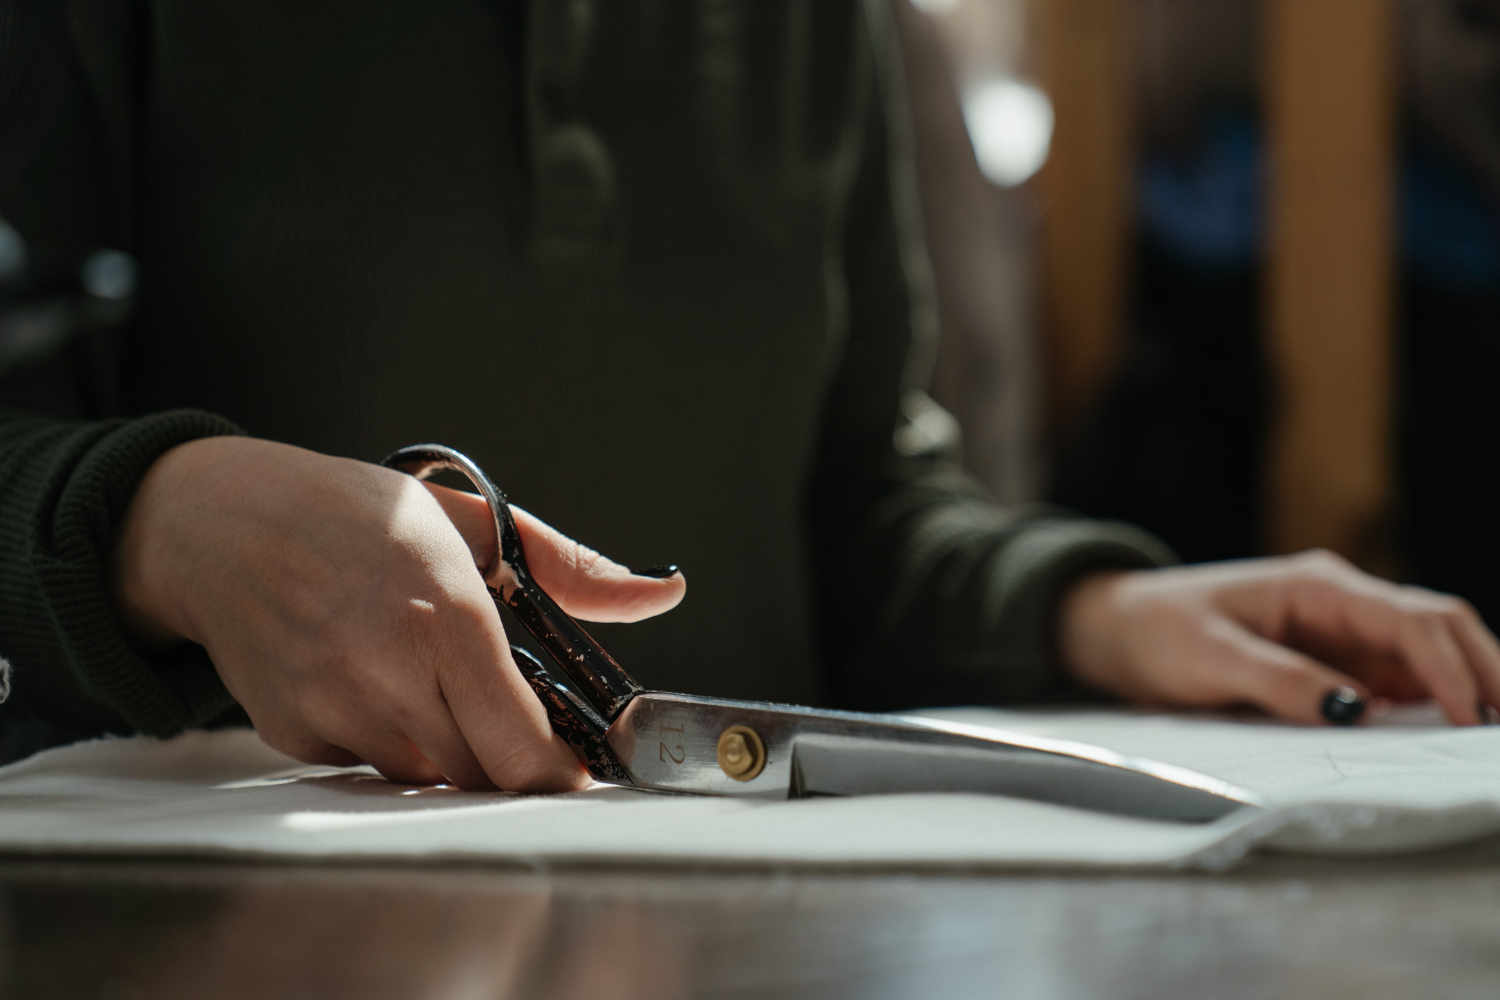
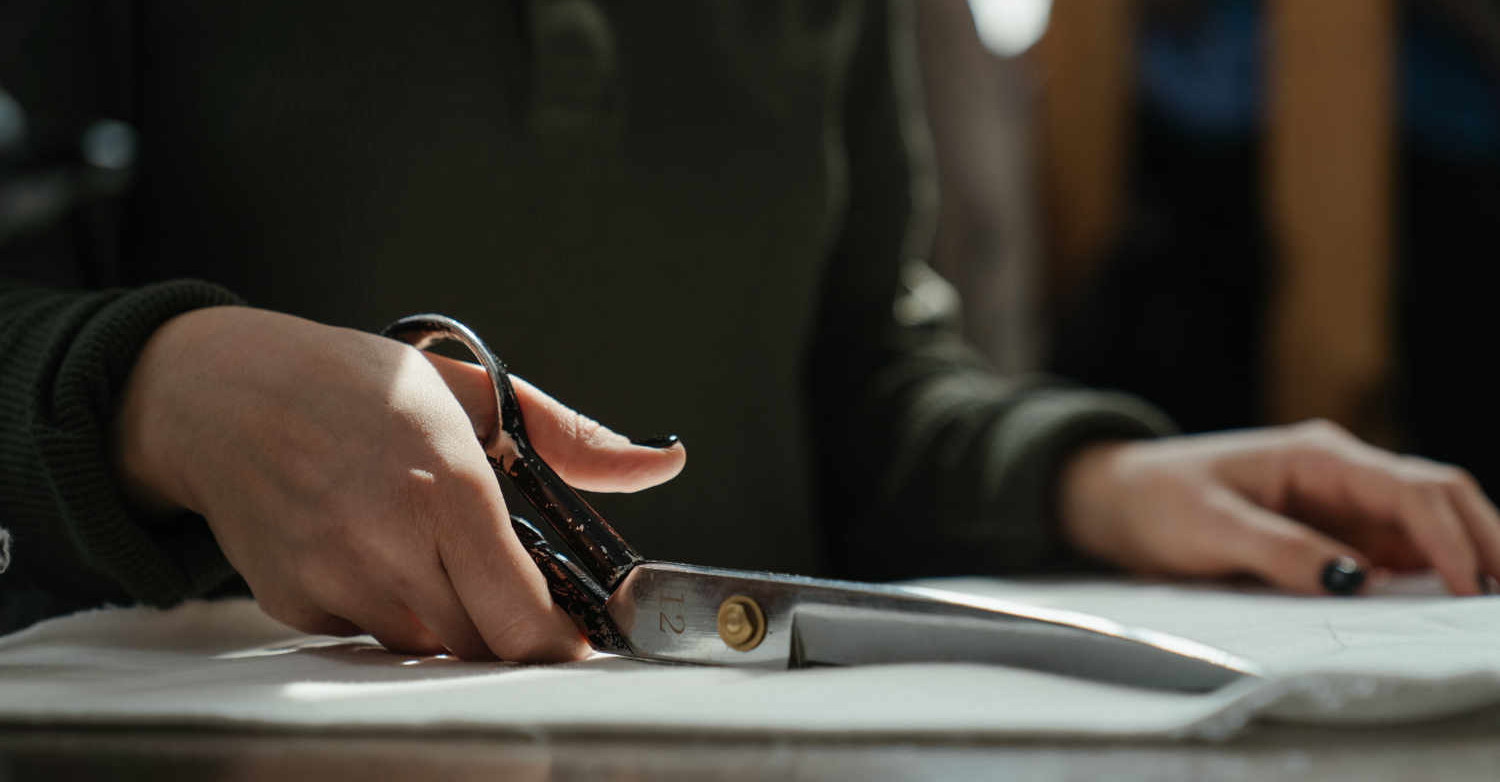
various smal fixes
added alt tags to some pictures,
simplified some css code and cropped a picture

diff --git a/css/style.css b/css/style.css
@@ -536,6 +536,9 @@ input[type="radio"]:checked ~ span {
 }
 */
 /* contact */
+#contact {
+  flex-direction: column;
+}
 #contact-us article {
   border-top: 1px solid #67dffb;
   border-bottom: 1px solid #67dffb;
@@ -547,6 +550,9 @@ input[type="radio"]:checked ~ span {
   border-color: black;
   border-radius: 0px;
   color: black;
+}
+#find-us p {
+  padding-right: 20px;
 }
 /*for bigger screens, with these two types, the site works well on smaller mobile devices,
  and laptops to desktops. sizes in the middel(just over 600px, should have one more version
@@ -910,7 +916,7 @@ input[type="radio"]:checked ~ span {
   }
   /*about us */
   #about-us {
-    grid-template-columns: 0.5fr 1fr;
+    grid-template-columns: 0.7fr 1fr;
     grid-template-areas:
       "about image1"
       "goal image2";
@@ -926,6 +932,10 @@ input[type="radio"]:checked ~ span {
   }
   #goal-img {
     grid-area: image2;
+  }
+  #about-us p {
+    max-width: 500px;
+    margin: 0 auto;
   }
   /* contact */
   #contact {
@@ -945,7 +955,7 @@ input[type="radio"]:checked ~ span {
     border: none;
   }
 
-  #contacy-us img {
+  #contact-us img {
     grid-column: 2/3;
   }
   #contact .hidden {
@@ -956,5 +966,8 @@ input[type="radio"]:checked ~ span {
     grid-template-columns: 1fr 1fr;
     align-items: center;
     justify-items: center;
+  }
+  #find-us p {
+    max-width: 400px;
   }
 }

diff --git a/about-us.html b/about-us.html
@@ -43,7 +43,7 @@
     <main id="about-us">
         <!-- i might be able to use one of the class for frontpage picture-->
         <div>
-        <img src="/images/pexels-pixabay-459225.jpg" class="hero">
+        <img src="/images/pexels-pixabay-459225.jpg" class="hero" alt="a landscape that we think suits who we are and what our products represent">
       <!--  <img src="/images/RainyDays_Logo_moto.png" class="content-top">-->
         </div>
         </article>
@@ -60,7 +60,7 @@
                 Our products is working in a huge variety of weather, so you can use it in places like windy mountains, or rainy valleys, our product even keeps the right temperature on a hot summer day!
             </p>
         </section id="goal">
-        <img src="/images/pexels-cottonbro-4621904.jpg" id="goal-img">
+        <img src="/images/pexels-cottonbro-4621904.jpg" id="goal-img" alt="image of our designer cutting some textiles">
         <article>
             <h2>Our Goal</h2>
             <p>
